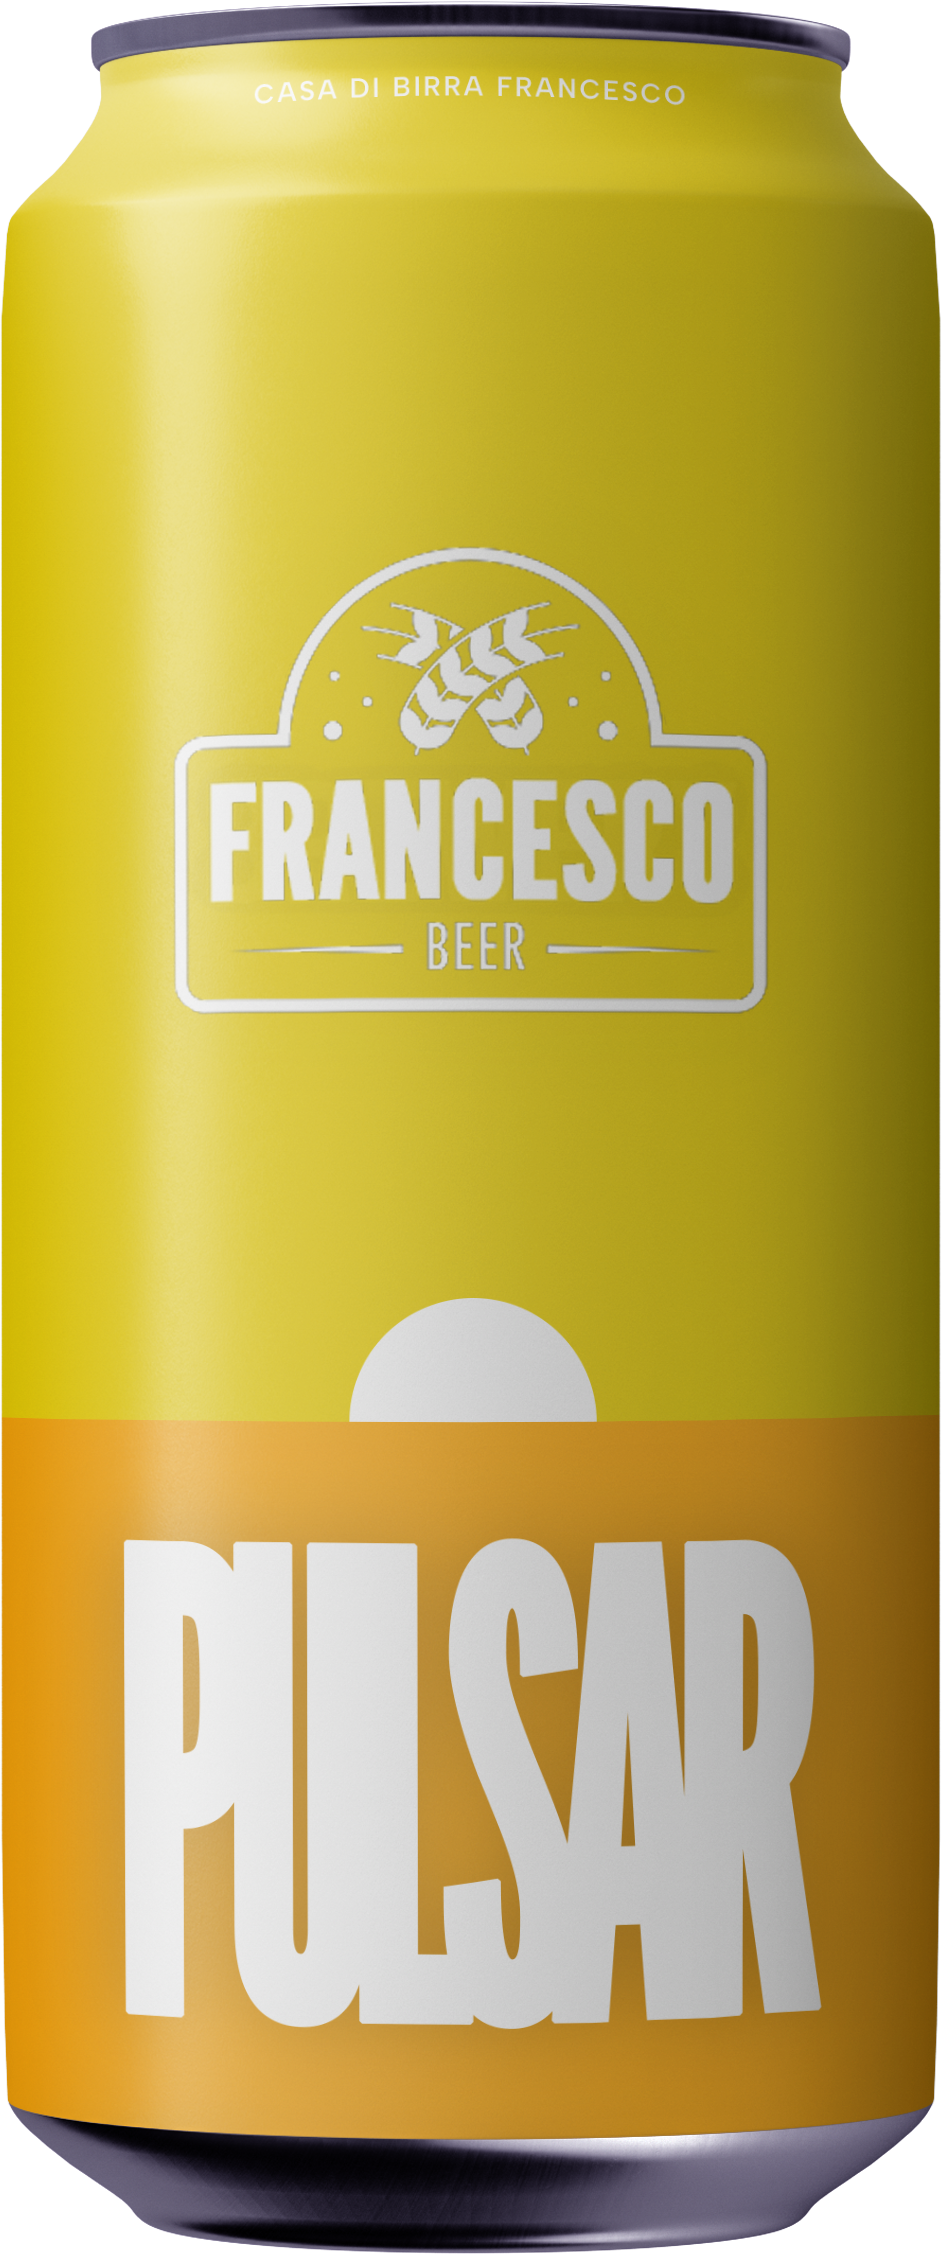
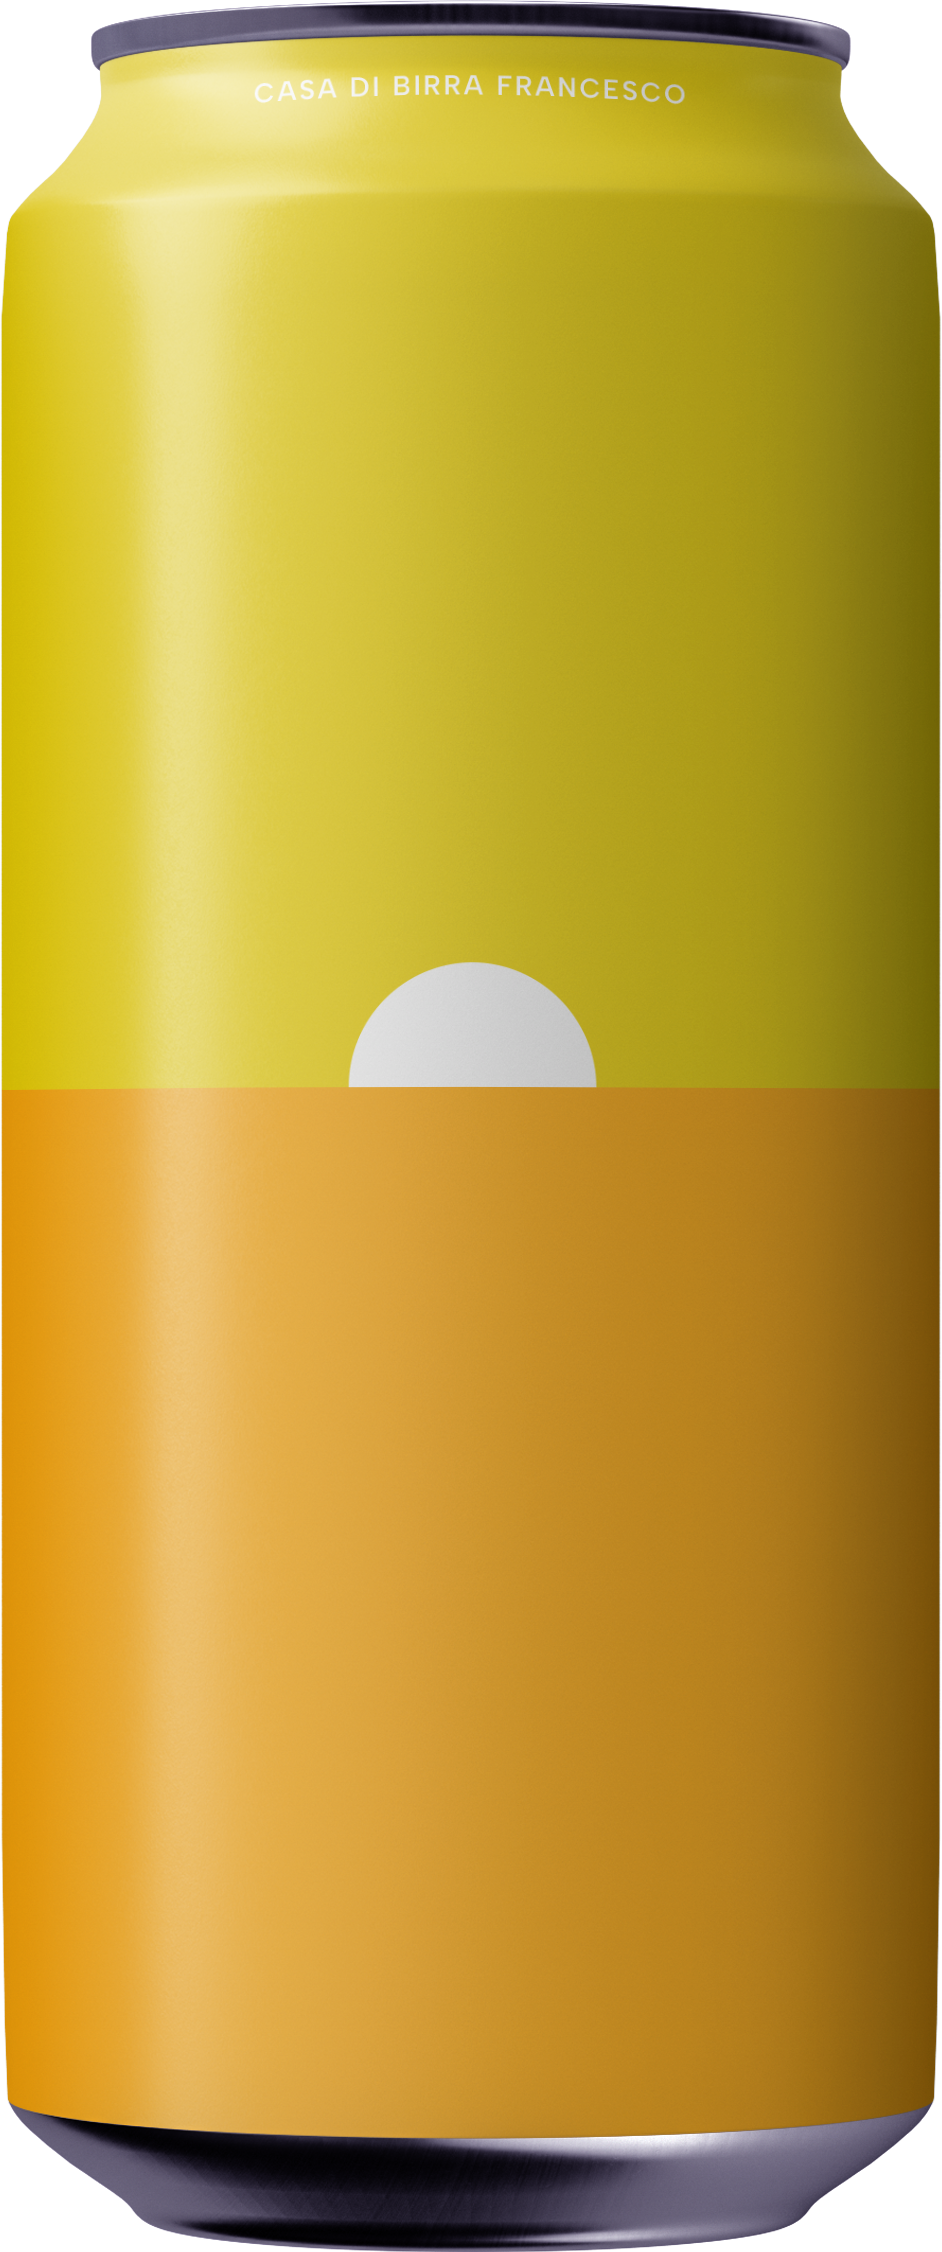
first can

diff --git a/pages/detalles-music-uno.html b/pages/detalles-music-uno.html
@@ -48,7 +48,7 @@
 
     <section>
         <div class="container-detalles">
-            <img src="../assets/img/lata-grande-pulsar.png" alt="lata de cerveza Casa di Birra Francesco">
+            <img src="../assets/img/lata-qualcosa.png" alt="lata de cerveza Casa di Birra Francesco">
         </div>
         <div class="container-info">
             <h2 class="grid-subtitle">qualcosa! - svegliaginevra</h1>
